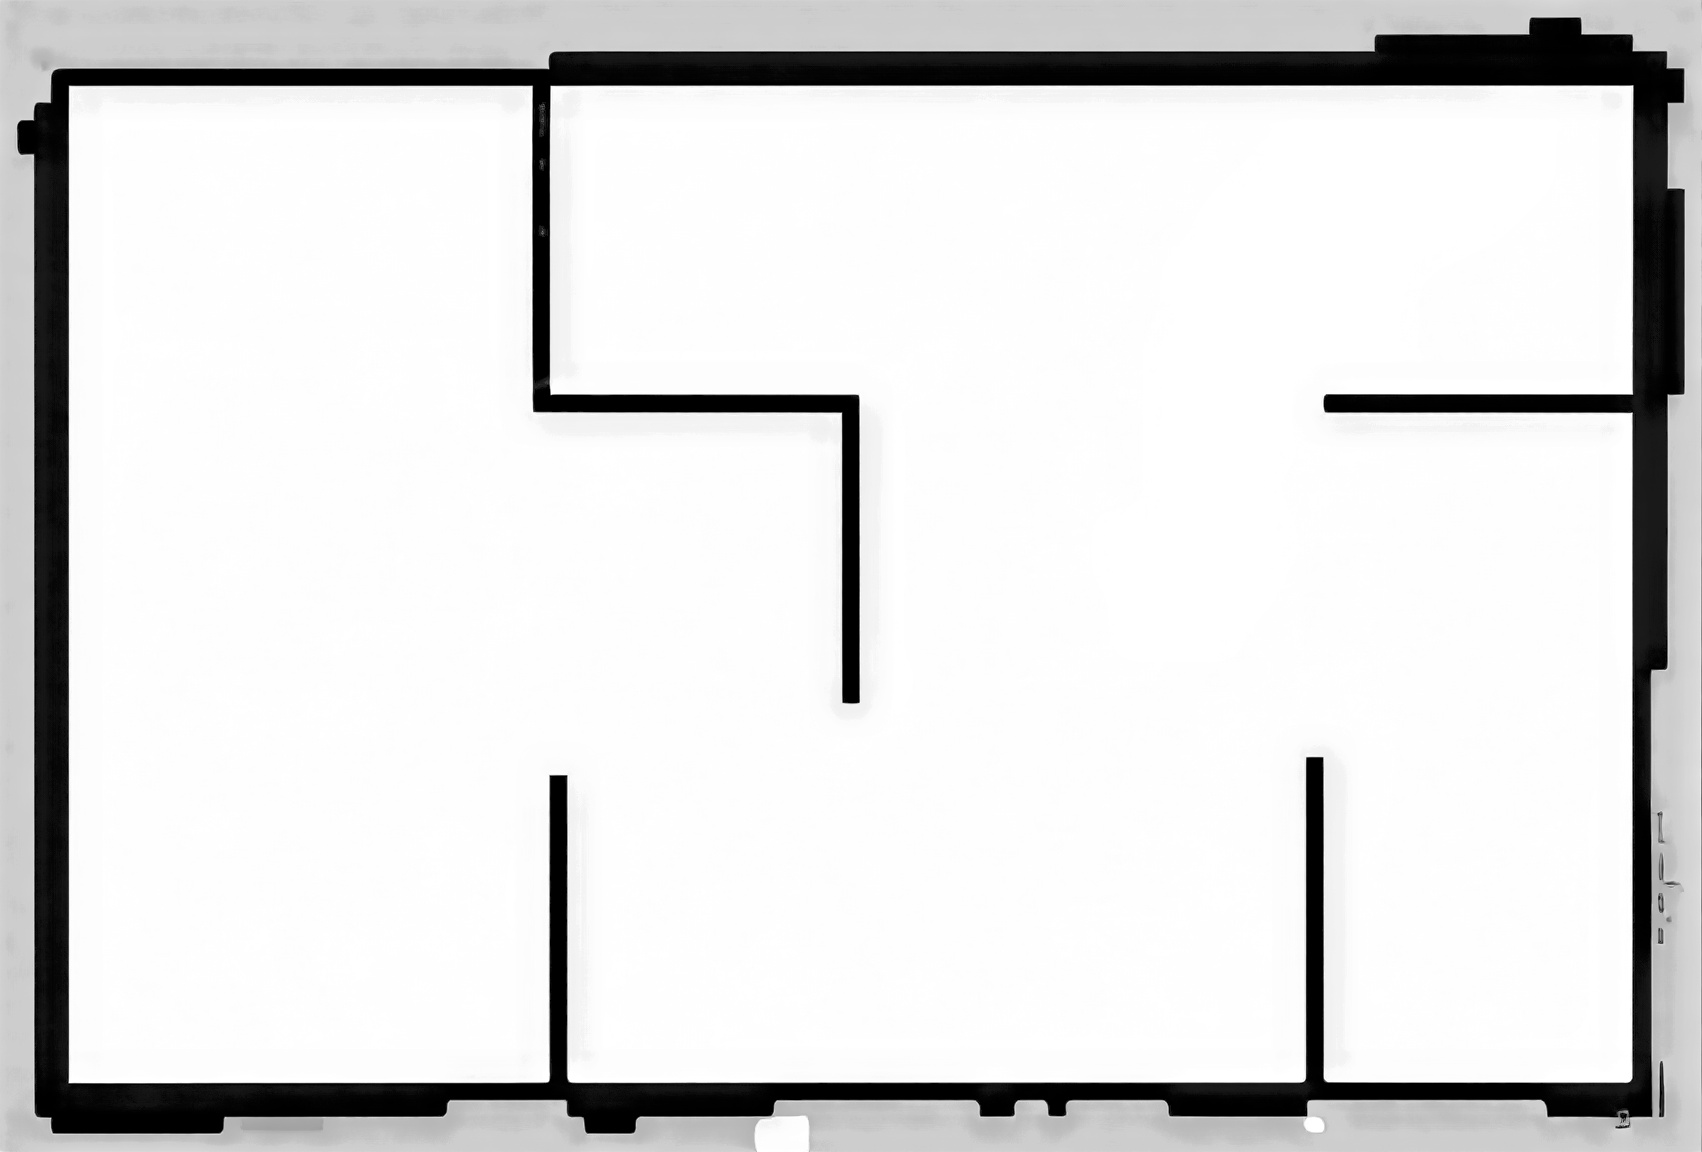
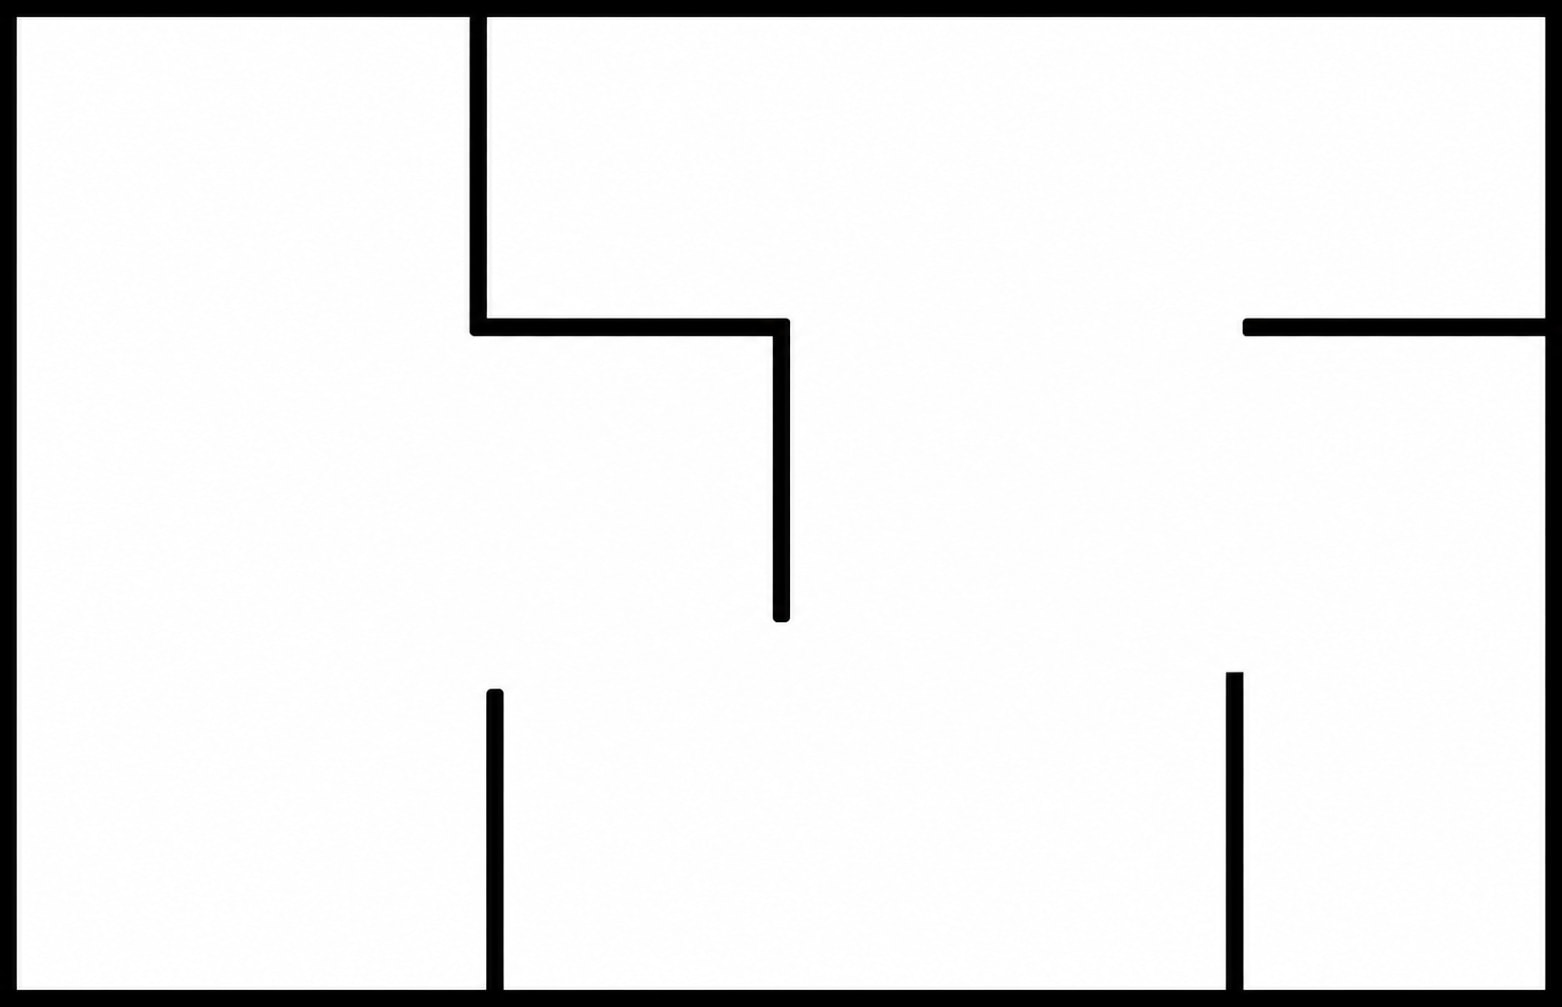
맵 이미지 정리, 로봇 아이콘 추가, 쓰레기장 표시

Changed region(s): [[0.0, 0.0, 1.0, 1.0], [0.4917, 0.5849, 0.5224, 0.6157]]

diff --git a/recycle/src/main/resources/static/js/dashboard.js b/recycle/src/main/resources/static/js/dashboard.js
@@ -8,13 +8,14 @@ const ctx = canvas.getContext("2d");
 const socket = new SockJS("/ws");
 const stomp = Stomp.over(socket);
 
+const robotImg = new Image();
+robotImg.src = "/image/robot3.png";
+
 let todayCount
 
 let robotPosition = null;
 let robotMapPosition = null;
-let navigationPastPath = [];
 let navigationPath = [];
-let startPosition = null;
 let destination = null;
 
 document.addEventListener("DOMContentLoaded", async () => {
@@ -49,12 +50,6 @@ let getRobotState = async () => {
 		document.querySelector("#state").style.color = "#4CAF50";
 		document.querySelector("#startBtn").classList.add("inactive-btn");
 		document.querySelector("#stopBtn").classList.remove("inactive-btn");
-		if (data.startDestinationX != null && data.startDestinationY != null) {
-	        startPosition = convertMapToCanvas(
-	            data.startDestinationX,
-	            data.startDestinationY
-	        );
-	    }
 
 	    if (data.goalDestinationX != null && data.goalDestinationY != null) {
 	        destination = convertMapToCanvas(
@@ -66,9 +61,7 @@ let getRobotState = async () => {
 		document.querySelector("#state").style.color = "red"
 		document.querySelector("#startBtn").classList.remove("inactive-btn");
 		document.querySelector("#stopBtn").classList.add("inactive-btn");
-		navigationPastPath = [];
 	    navigationPath = [];
-	    startPosition = null;
 	    destination = null;
 	}
 
@@ -98,12 +91,24 @@ let getDefaultMap = async() => {
 	
 	img.src = defaultMap.imagePath;
 	
-	img.onload = () => {
-        canvas.width = img.clientWidth;
-        canvas.height = img.clientHeight;
+	await new Promise((resolve, reject) => {
+        img.onload = () => {
+            canvas.width = img.clientWidth;
+            canvas.height = img.clientHeight;
 
-        drawMap();
-    };	   
+            // 확인용 로봇 위치
+            robotPosition = {
+                x: canvas.width / 3,
+                y: canvas.height / 2
+            };
+
+            drawMap();
+
+            resolve();
+        };
+
+        img.onerror = reject;
+    });  
 }
 
 let convertMapToCanvas = (x, y) => {
@@ -150,18 +155,15 @@ stomp.connect({}, function(){
 						document.querySelector("#startBtn").classList.remove("inactive-btn");
 						document.querySelector("#stopBtn").classList.add("inactive-btn");
 						
-						navigationPastPath = [];
 				        navigationPath = [];
-				        startPosition = null;
 				        destination = null;
 
 				        drawMap();
 					}
 					break;
 	            case "robot_pose":					
-					robotMapPosition = {x: data.x, y: data.y};
-					robotPosition = convertMapToCanvas(data.x, data.y);					
-					addPastPath(robotPosition.x, robotPosition.y)
+					robotMapPosition = {x: data.x, y: data.y, yaw: data.yaw};
+					robotPosition = convertMapToCanvas(data.x, data.y);		
 					
 					drawMap();
 	                break;
@@ -170,14 +172,6 @@ stomp.connect({}, function(){
 				    drawMap();
 				    break;
 				case "navigation_goal":
-					navigationPastPath = [];
-					if(robotPosition){
-						startPosition = {
-							x: robotPosition.x,
-							y: robotPosition.y
-						}
-					}
-
 				    destination = convertMapToCanvas(data.x, data.y);
 					
 					if(robotMapPosition){
@@ -209,87 +203,116 @@ stomp.connect({}, function(){
     );
 });
 
+const areaLabels = ["플라스틱", "캔", "종이", "유리", "일반쓰레기"];
+
+let getCurrentAreaIndex = () => {
+    if (!robotPosition) return -1;
+
+    const areaLeft = 10;
+    const areaWidth = 90;
+    const areaTop = 10;
+    const areaHeight = canvas.height - 20;
+
+    // ★ 로봇이 왼쪽 구역 표시 영역 밖이면 아무 구역도 선택하지 않음
+    if (
+        robotPosition.x < areaLeft ||
+        robotPosition.x > areaLeft + areaWidth ||
+        robotPosition.y < areaTop ||
+        robotPosition.y > areaTop + areaHeight
+    ) {
+        return -1;
+    }
+
+    const sectionHeight = areaHeight / 5;
+
+    return Math.floor(
+        (robotPosition.y - areaTop) / sectionHeight
+    );
+}
+
+let drawAreaLabels = () => {
+    const sectionHeight = canvas.height / 5;
+    const labelX = 20;
+    const currentAreaIndex = getCurrentAreaIndex();
+
+    for (let i = 0; i < 5; i++) {
+        const y = i * sectionHeight;
+
+        // 구역 경계선
+        ctx.beginPath();
+        ctx.moveTo(0, y);
+        ctx.lineTo(80, y);
+        ctx.strokeStyle = "#CCCCCC";
+        ctx.lineWidth = 1;
+        ctx.stroke();
+
+        // 현재 로봇이 있는 구역 강조
+        if (i === currentAreaIndex) {
+            ctx.fillStyle = "rgba(76, 175, 80, 0.18)";
+            ctx.fillRect(0, y, 80, sectionHeight);
+
+            ctx.fillStyle = "#2E7D32";
+            ctx.font = "bold 16px Arial";
+        } else {
+            ctx.fillStyle = "#666";
+            ctx.font = "14px Arial";
+        }
+
+        // 글자
+        ctx.fillText(
+            areaLabels[i],
+            labelX,
+            y + sectionHeight / 2
+        );
+    }
+
+    // 마지막 아래 경계선
+    ctx.beginPath();
+    ctx.moveTo(0, canvas.height);
+    ctx.lineTo(80, canvas.height);
+    ctx.strokeStyle = "#CCCCCC";
+    ctx.lineWidth = 1;
+    ctx.stroke();
+}
+
 
 let drawMap = () => {	
     ctx.clearRect(0, 0, canvas.width, canvas.height);
-	// 지나온 길
-    drawPastPath();
+	drawAreaLabels();
+	
     // 앞으로 갈 길
     drawNavigationPath();
-    // 출발지
-    drawStartPosition();
     // 목적지
     drawDestination();
     // 현재 로봇은 제일 마지막
     drawRobot();
 }
 
-let drawStartPosition = () => {
-	if (!startPosition)
-        return;
-
-    ctx.beginPath();
-
-    ctx.arc(
-        startPosition.x, startPosition.y, 6, 0, Math.PI * 2
-    );
-
-    ctx.fillStyle = "#4CAF50";
-    ctx.fill();
-
-    ctx.font = "12px Arial";
-    ctx.fillStyle = "#4CAF50";
-
-    ctx.fillText(
-        "Start",
-        startPosition.x + 9,
-        startPosition.y - 8
-    );
-}
-
-let addPastPath = (x, y) => {
-	if(navigationPastPath.length == 0){
-		navigationPastPath.push({x, y})
-		return
-	}
-	
-	const last = navigationPastPath[navigationPastPath.length - 1]
-	const dx = x - last.x;
-    const dy = y - last.y;
-
-    const distance = Math.sqrt(dx * dx + dy * dy);
-
-    if (distance >= 3) {
-        navigationPastPath.push({ x, y });
-    }
-}
-
-let drawPastPath = () => {
-	if (navigationPastPath.length < 2)
-        return;
-
-    ctx.beginPath();
-
-    ctx.moveTo(navigationPastPath[0].x, navigationPastPath[0].y); 
-
-    for (let i = 1; i < navigationPastPath.length; i++) {
-        ctx.lineTo(navigationPastPath[i].x, navigationPastPath[i].y);
-    }
-
-    ctx.strokeStyle = "#9E9E9E";
-    ctx.lineWidth = 2;
-
-    ctx.stroke();
-}
-
 let drawRobot = () => {
-	if(!robotPosition)
+	if (!robotPosition)
         return;
 
-    ctx.beginPath();
-    ctx.arc(robotPosition.x, robotPosition.y, 6, 0, Math.PI * 2);
-    ctx.fillStyle = "red";
-    ctx.fill();
+	if (!robotImg.complete || robotImg.naturalWidth === 0)
+        return;
+
+    const robotWidth = 50
+	const robotHeight = 50
+	
+	ctx.save();
+
+    ctx.translate(
+        robotPosition.x, robotPosition.y
+    );
+
+    ctx.drawImage(
+        robotImg,
+        -robotWidth / 2,
+        -robotHeight / 2,
+        robotWidth,
+        robotHeight
+    );
+
+    ctx.restore();
 }
 
 let drawNavigationPath = () => {
